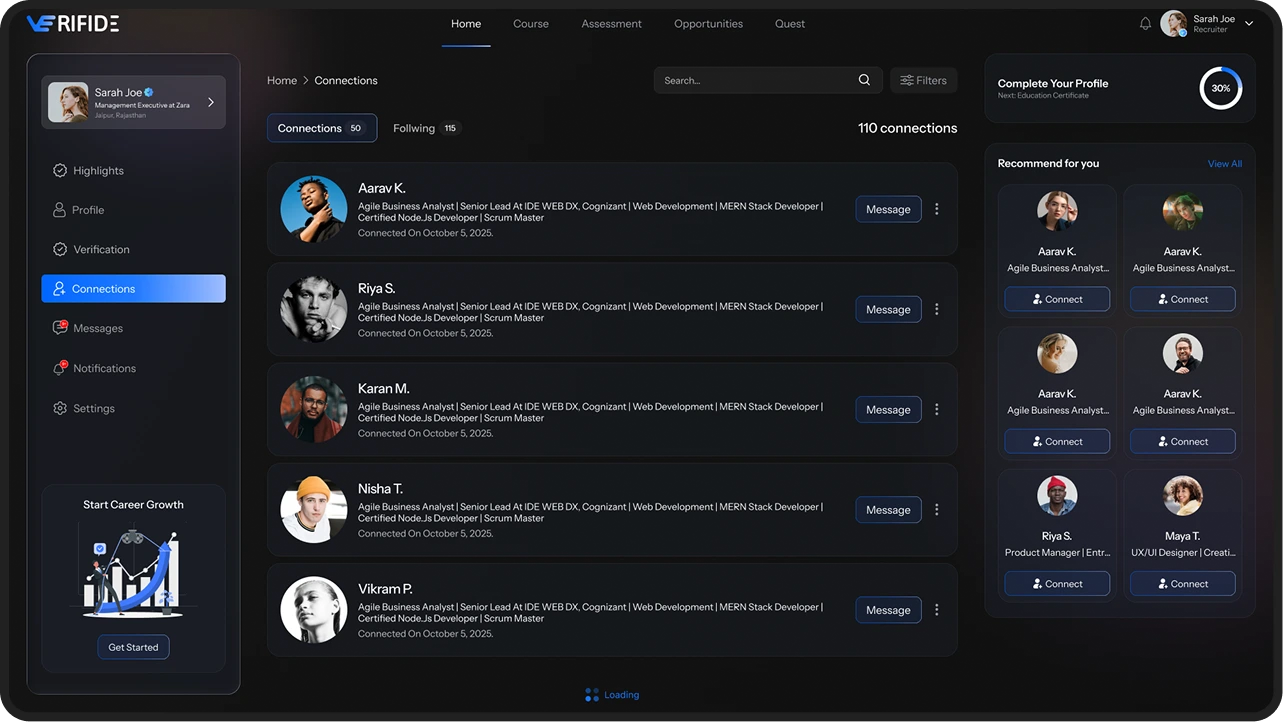
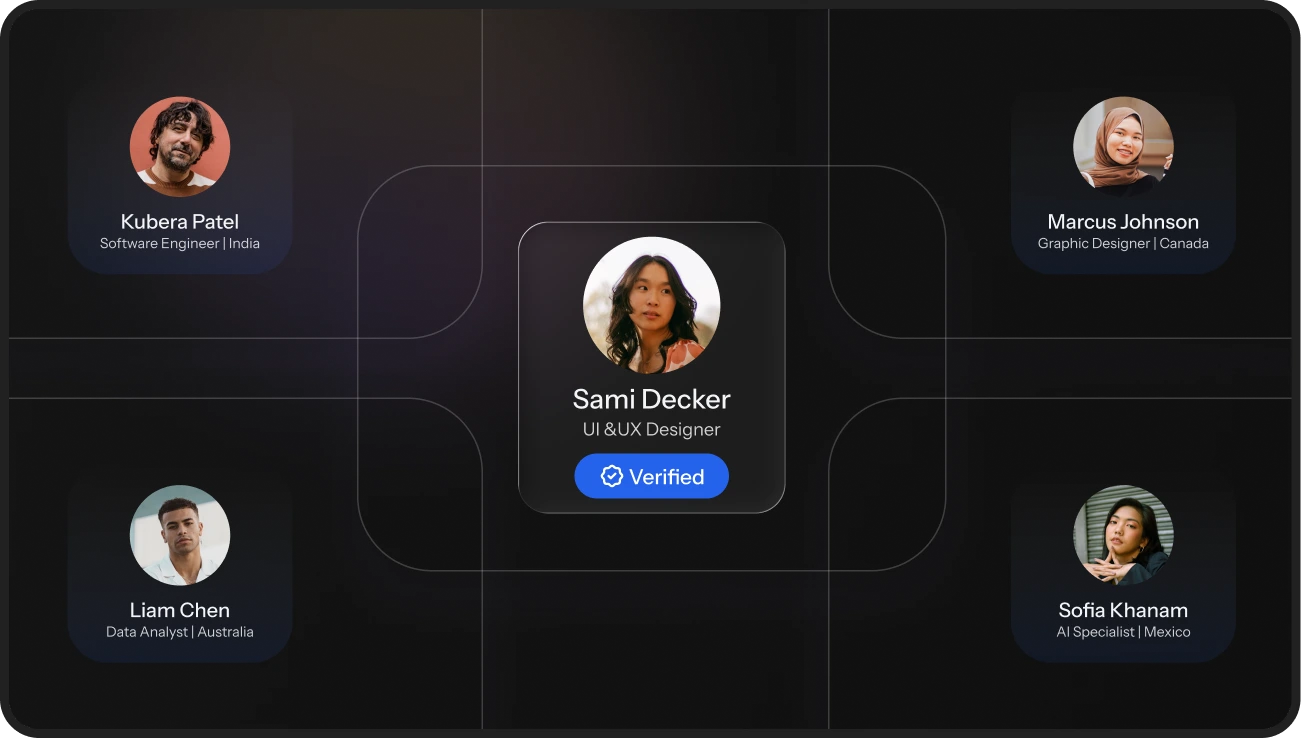
company feture update

diff --git a/app/companies/Featured.tsx b/app/companies/Featured.tsx
@@ -10,7 +10,7 @@ import { motion } from "framer-motion";
 const solutionData = [
   {
     id: 1,
-    img: "/img/home/profile-passport.svg",
+    img: "/img/employers/verified-talent-profiles.webp",
     title: "Verified Talent Profiles",
     subtitle: `Access detailed profiles with validated skills, projects, education, and experience.
 `,
@@ -18,7 +18,7 @@ const solutionData = [
   },
   {
     id: 2,
-    img: "/img/home/skill-check.svg",
+    img: "/img/employers/streamlined-recruitment.webp",
     title: "Streamlined Recruitment",
     subtitle: `Save time with pre-verified candidates and automated onboarding tools.
 `,
@@ -27,7 +27,7 @@ const solutionData = [
 
   {
     id: 3,
-    img: "/img/home/client-portal.svg",
+    img: "/img/employers/community-building.webp",
     title: "Community Building",
     subtitle: `Launch products, host events, and engage with your target audience.`,
     buttonLink: "",
@@ -35,14 +35,14 @@ const solutionData = [
 
   {
     id: 4,
-    img: "/img/home/opportunities-hub.svg",
+    img: "/img/employers/talent-insights.webp",
     title: "Talent Insights",
     subtitle: `Analyze industry-specific talent pools for better hiring decisions. `,
     buttonLink: "",
   },
   {
     id: 5,
-    img: "/img/home/opportunities-hub.svg",
+    img: "/img/employers/employer-branding.webp",
     title: "Employer Branding",
     subtitle:
       "Highlight your company as a trusted partner for growth and opportunity.",
@@ -155,7 +155,7 @@ const Featured = () => {
 
                   <div className="lg:w-7/12 w-full">
                     <img
-                      src="/img/employers/verified-talent-profiles.webp"
+                      src={slide.img}
                       className="object-contain "
                     />
                   </div>

diff --git a/app/about/WhyVerifide.tsx b/app/about/WhyVerifide.tsx
@@ -91,7 +91,7 @@ const WhyVerifide = () => {
                   </svg>
                   <p> Access real-world opportunities.</p>
                 </motion.div>
-                <motion.div
+                {/* <motion.div
                   initial={{ opacity: 0, y: 40 }}
                   whileInView={{ opacity: 1, y: 0 }}
                   transition={{
@@ -118,7 +118,7 @@ const WhyVerifide = () => {
                     <path d="M2 12l5 5m5 -5l5 -5" />
                   </svg>
                   <p> Build authentic credibility.</p>
-                </motion.div>
+                </motion.div> */}
 
                  <motion.div
                   initial={{ opacity: 0, y: 40 }}
